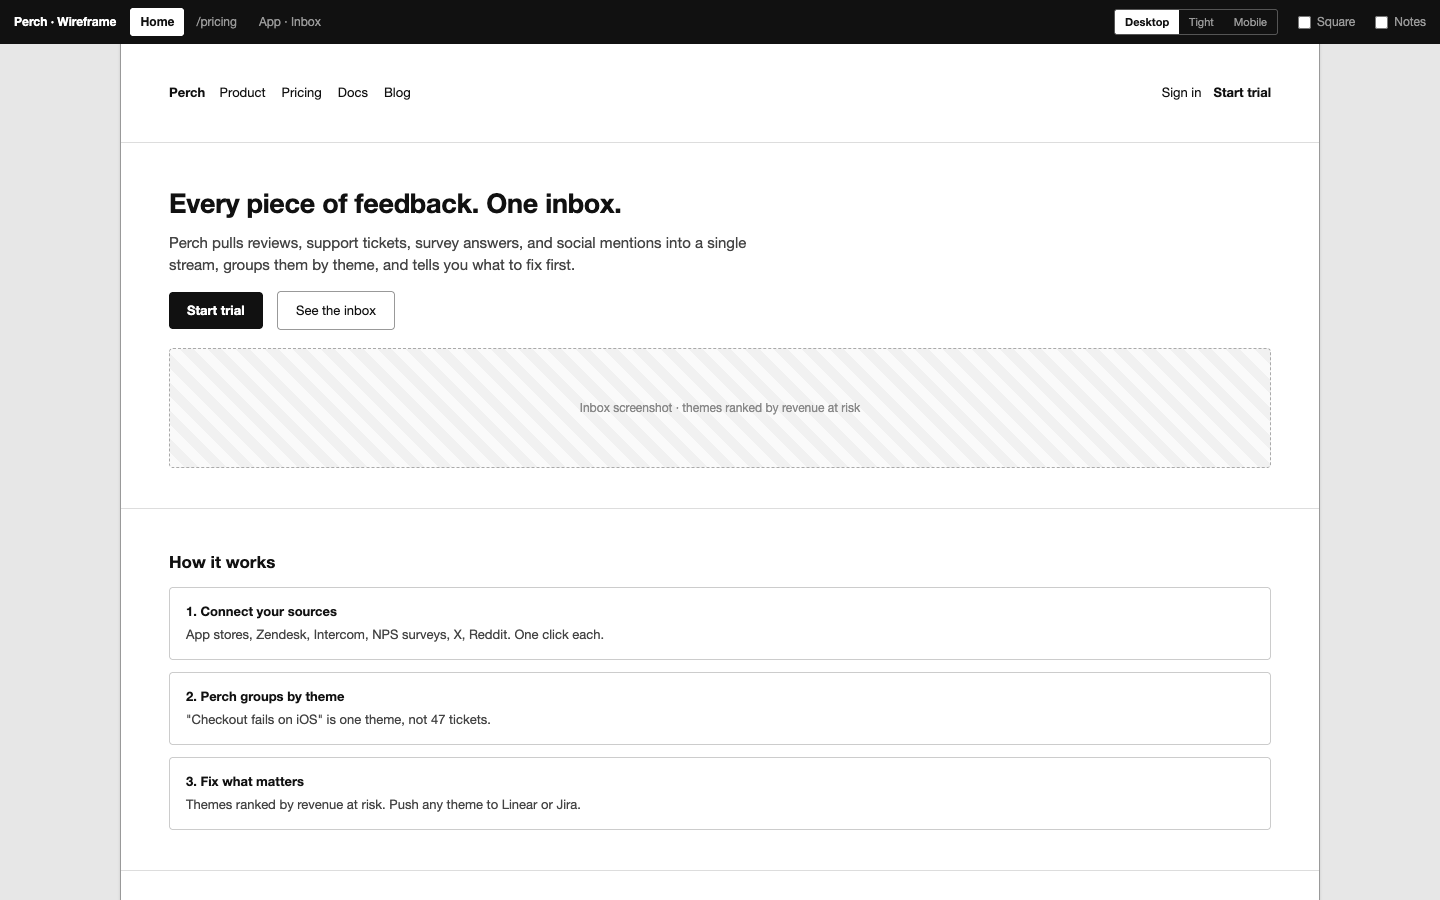
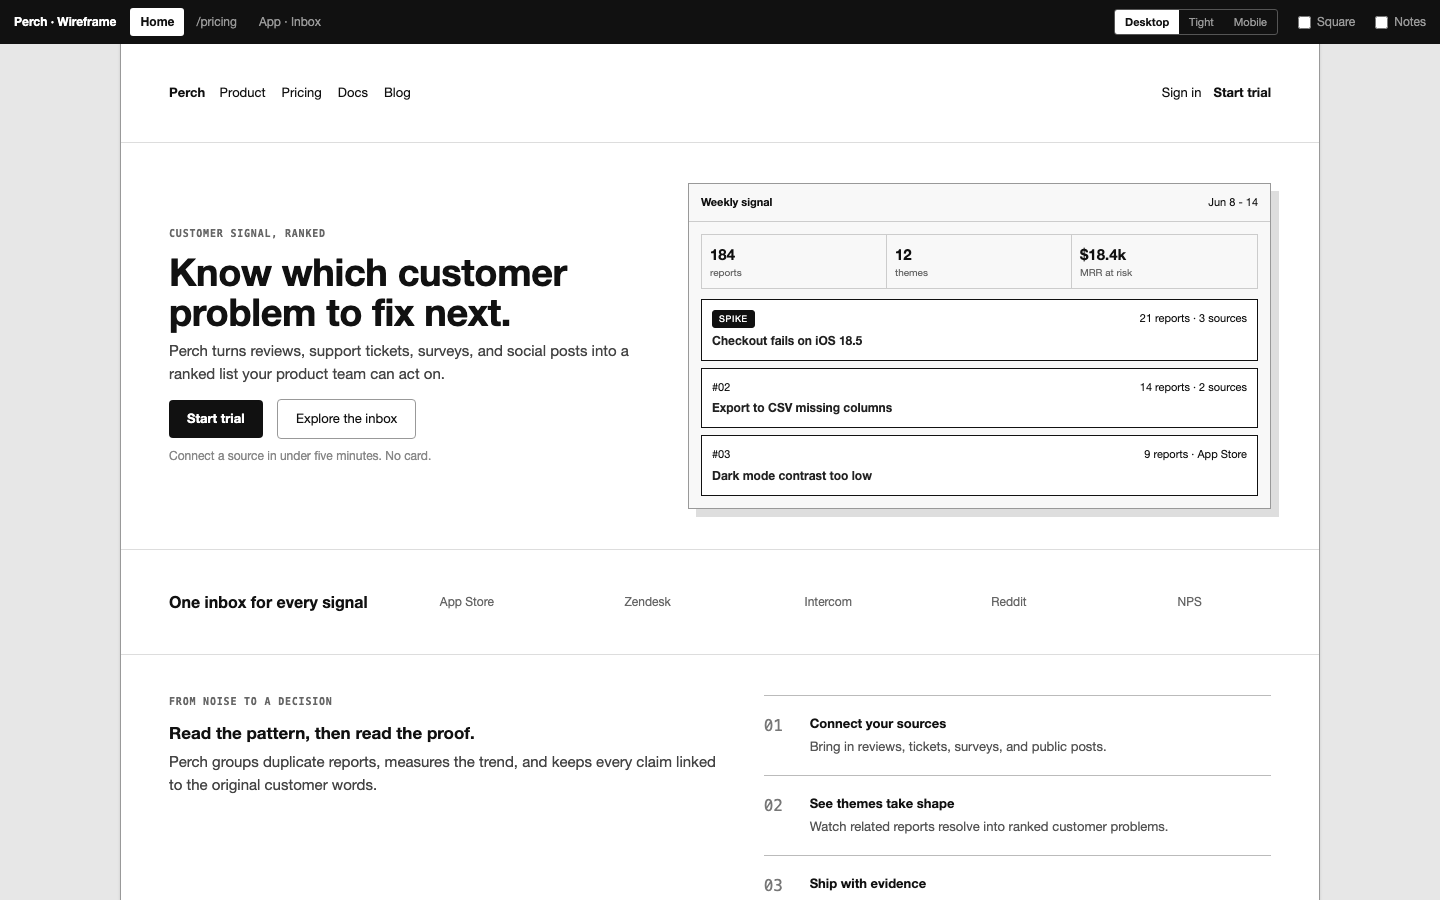
docs: refresh Perch example in README

diff --git a/README.md b/README.md
@@ -4,17 +4,17 @@ An agent skill for producing lo-fi, interactive grayscale wireframes (marketing 
 
 ## Example
 
-A fictional product ("Perch", a customer feedback inbox), wireframed with this skill. Source: [`example/index.html`](example/index.html).
+A fictional product ("Perch", a customer feedback inbox), wireframed with this skill as a richer interactive prototype. Source: [`example/index.html`](example/index.html).
 
-A site page at the default desktop width (1200px). The dark deck bar is the review apparatus: page tabs on the left; Desktop / Tight / Mobile width presets, a Square corners toggle, and the Notes toggle on the right.
+The marketing page uses a working product preview instead of a placeholder image. The dark deck bar is the review apparatus: page tabs on the left; Desktop / Tight / Mobile width presets, a Square corners toggle, and the Notes toggle on the right.
 
 ![Site wireframe: Perch home page](assets/example-home.png)
 
-An app screen (1360px, 3-column shell with a chat panel) with Notes on: annotations become numbered dots; click one for its bubble.
+The app screen is a demoable customer-signal workflow: change the time range, filter and search themes, inspect linked evidence and source mix, review an editable Linear draft, and ask follow-up questions in the assistant panel. With Notes on, annotations become numbered dots; click one for its bubble.
 
 ![App wireframe: Perch inbox with a design note open](assets/example-app-notes.png)
 
-The same app screen under the Mobile preset (390px, iPhone logical width): columns stack and the shell collapses to one column with the sidebar as a top nav row.
+The same workflow under the Mobile preset (390px, iPhone logical width): metrics reflow, theme rows simplify, and the shell collapses to one column with the sidebar as a top nav row.
 
 <img src="assets/example-mobile.png" width="390" alt="Mobile preview: Perch inbox at 390px">
 